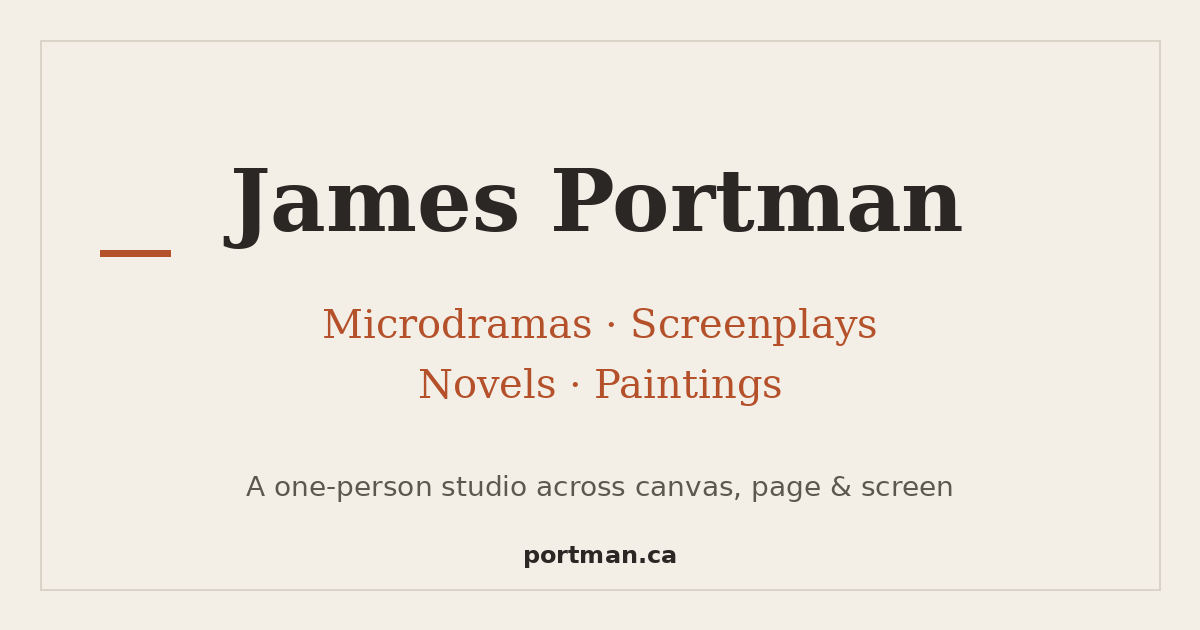
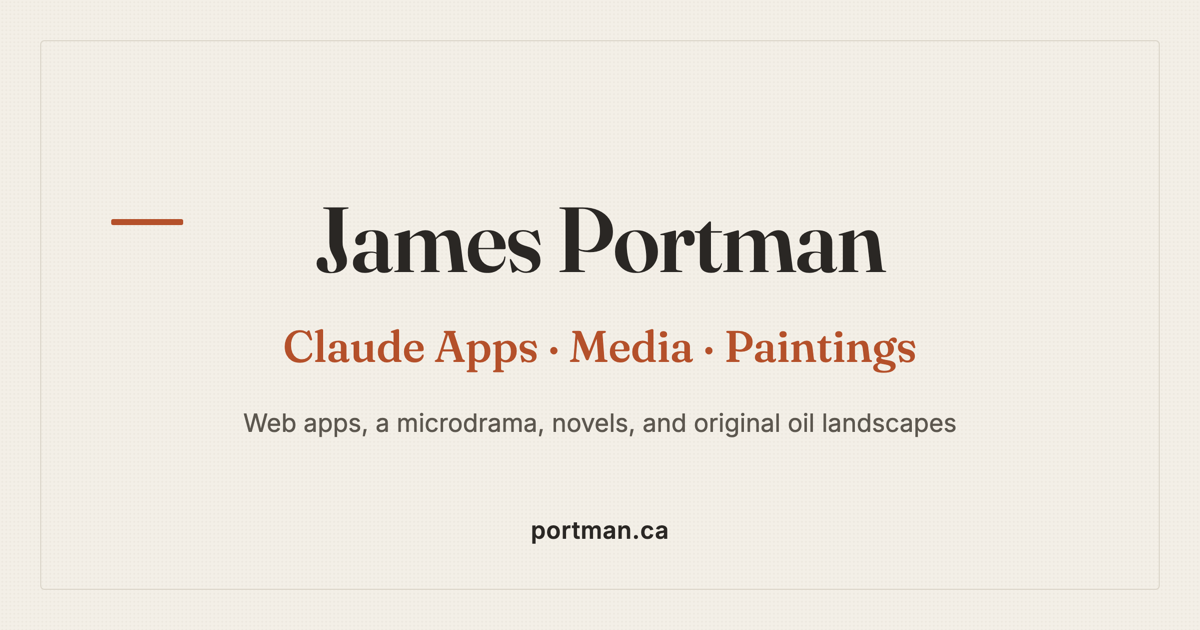
New social card, gallery build script, lighter images
- assets/og-image.png regenerated: the card said "Microdramas · Screenplays ·
  Novels · Paintings" and described a studio "across canvas, page & screen"
- tools/build-gallery.mjs rebuilds the Paintings grid from the public
  georgianartist.com pages — no database, no credentials. --check reports
  drift without writing. Run it after changing the gallery.
- Tile images are now alt="" so screen readers read each title once, from
  the caption, instead of twice
- Card images resized to what they display at: 796K -> 192K, 508K -> 64K,
  208K -> 136K

diff --git a/index.html b/index.html
@@ -169,30 +169,30 @@
         <a class="visit" href="https://www.georgianartist.com" target="_blank" rel="noopener">Visit georgianartist.com →</a>
         <div class="toplist">
           <div class="tiles">
-            <a href="https://www.georgianartist.com/products/scenic-caves" target="_blank" rel="noopener" title="Scenic Caves"><img src="assets/gallery/scenic-caves.jpg" alt="Scenic Caves" loading="lazy" /><span>Scenic Caves</span></a>
-            <a href="https://www.georgianartist.com/products/singhampton-winter" target="_blank" rel="noopener" title="Singhampton: Winter"><img src="assets/gallery/singhampton-winter.jpg" alt="Singhampton: Winter" loading="lazy" /><span>Singhampton: Winter</span></a>
-            <a href="https://www.georgianartist.com/products/council-beach" target="_blank" rel="noopener" title="Council Beach"><img src="assets/gallery/council-beach.jpg" alt="Council Beach" loading="lazy" /><span>Council Beach</span></a>
-            <a href="https://www.georgianartist.com/products/lora-bay" target="_blank" rel="noopener" title="Lora Bay"><img src="assets/gallery/lora-bay.jpg" alt="Lora Bay" loading="lazy" /><span>Lora Bay</span></a>
-            <a href="https://www.georgianartist.com/products/bruce-trail" target="_blank" rel="noopener" title="Bruce Trail in the Grey Highlands"><img src="assets/gallery/bruce-trail.jpg" alt="Bruce Trail in the Grey Highlands" loading="lazy" /><span>Bruce Trail in the Grey Highlands</span></a>
-            <a href="https://www.georgianartist.com/products/inglis-falls" target="_blank" rel="noopener" title="Inglis Falls, Owen Sound"><img src="assets/gallery/inglis-falls.jpg" alt="Inglis Falls, Owen Sound" loading="lazy" /><span>Inglis Falls, Owen Sound</span></a>
-            <a href="https://www.georgianartist.com/products/manitoulin-island" target="_blank" rel="noopener" title="Manitoulin Island"><img src="assets/gallery/manitoulin-island.jpg" alt="Manitoulin Island" loading="lazy" /><span>Manitoulin Island</span></a>
-            <a href="https://www.georgianartist.com/products/alpine-ski-fall" target="_blank" rel="noopener" title="Alpine Ski: Fall"><img src="assets/gallery/alpine-ski-fall.jpg" alt="Alpine Ski: Fall" loading="lazy" /><span>Alpine Ski: Fall</span></a>
-            <a href="https://www.georgianartist.com/products/beaver-river-access" target="_blank" rel="noopener" title="Beaver River Access"><img src="assets/gallery/beaver-river-access.jpg" alt="Beaver River Access" loading="lazy" /><span>Beaver River Access</span></a>
-            <a href="https://www.georgianartist.com/products/ravenna-canola" target="_blank" rel="noopener" title="Ravenna Canola Field"><img src="assets/gallery/ravenna-canola.jpg" alt="Ravenna Canola Field" loading="lazy" /><span>Ravenna Canola Field</span></a>
-            <a href="https://www.georgianartist.com/products/northwinds-beach" target="_blank" rel="noopener" title="Northwinds Beach"><img src="assets/gallery/northwinds-beach.jpg" alt="Northwinds Beach" loading="lazy" /><span>Northwinds Beach</span></a>
-            <a href="https://www.georgianartist.com/products/ravenna-sunset" target="_blank" rel="noopener" title="Ravenna Sunset"><img src="assets/gallery/ravenna-sunset.jpg" alt="Ravenna Sunset" loading="lazy" /><span>Ravenna Sunset</span></a>
-            <a href="https://www.georgianartist.com/photographs/clarksburg-library" target="_blank" rel="noopener" title="Clarksburg Library"><img src="assets/gallery/clarksburg-library.jpg" alt="Clarksburg Library" loading="lazy" /><span>Clarksburg Library</span></a>
-            <a href="https://www.georgianartist.com/photographs/delphi-point" target="_blank" rel="noopener" title="Delphi Point"><img src="assets/gallery/delphi-point.jpg" alt="Delphi Point" loading="lazy" /><span>Delphi Point</span></a>
-            <a href="https://www.georgianartist.com/photographs/ravenna-canola-photo" target="_blank" rel="noopener" title="Ravenna Canola"><img src="assets/gallery/ravenna-canola-photo.jpg" alt="Ravenna Canola" loading="lazy" /><span>Ravenna Canola</span></a>
-            <a href="https://www.georgianartist.com/photographs/northwinds-beach-twilight" target="_blank" rel="noopener" title="Northwinds Beach Twilight"><img src="assets/gallery/northwinds-beach-twilight.jpg" alt="Northwinds Beach Twilight" loading="lazy" /><span>Northwinds Beach Twilight</span></a>
-            <a href="https://www.georgianartist.com/photographs/the-grotto" target="_blank" rel="noopener" title="The Grotto"><img src="assets/gallery/the-grotto.jpg" alt="The Grotto" loading="lazy" /><span>The Grotto</span></a>
-            <a href="https://www.georgianartist.com/photographs/blue-mountain-sunrise" target="_blank" rel="noopener" title="Blue Mountain Sunrise"><img src="assets/gallery/blue-mountain-sunrise.jpg" alt="Blue Mountain Sunrise" loading="lazy" /><span>Blue Mountain Sunrise</span></a>
-            <a href="https://www.georgianartist.com/photographs/blue-mountain-sunset-2" target="_blank" rel="noopener" title="Blue Mountain Sunset"><img src="assets/gallery/blue-mountain-sunset-2.jpg" alt="Blue Mountain Sunset" loading="lazy" /><span>Blue Mountain Sunset</span></a>
-            <a href="https://www.georgianartist.com/photographs/local-farm" target="_blank" rel="noopener" title="Local Farm"><img src="assets/gallery/local-farm.jpg" alt="Local Farm" loading="lazy" /><span>Local Farm</span></a>
-            <a href="https://www.georgianartist.com/photographs/blue-mountain-trail" target="_blank" rel="noopener" title="Blue Mountain Trail"><img src="assets/gallery/blue-mountain-trail.jpg" alt="Blue Mountain Trail" loading="lazy" /><span>Blue Mountain Trail</span></a>
-            <a href="https://www.georgianartist.com/photographs/bridal-veil-falls" target="_blank" rel="noopener" title="Bridal Veil Falls"><img src="assets/gallery/bridal-veil-falls.jpg" alt="Bridal Veil Falls" loading="lazy" /><span>Bridal Veil Falls</span></a>
-            <a href="https://www.georgianartist.com/photographs/autumn-canopy" target="_blank" rel="noopener" title="Autumn Canopy"><img src="assets/gallery/autumn-canopy.jpg" alt="Autumn Canopy" loading="lazy" /><span>Autumn Canopy</span></a>
-            <a href="https://www.georgianartist.com/photographs/snowy-owl-in-craigleith" target="_blank" rel="noopener" title="Snowy Owl in Craigleith"><img src="assets/gallery/snowy-owl-in-craigleith.jpg" alt="Snowy Owl in Craigleith" loading="lazy" /><span>Snowy Owl in Craigleith</span></a>
+            <a href="https://www.georgianartist.com/products/scenic-caves" target="_blank" rel="noopener" title="Scenic Caves"><img src="assets/gallery/scenic-caves.jpg" alt="" loading="lazy" /><span>Scenic Caves</span></a>
+            <a href="https://www.georgianartist.com/products/singhampton-winter" target="_blank" rel="noopener" title="Singhampton: Winter"><img src="assets/gallery/singhampton-winter.jpg" alt="" loading="lazy" /><span>Singhampton: Winter</span></a>
+            <a href="https://www.georgianartist.com/products/bruce-trail" target="_blank" rel="noopener" title="Bruce Trail in the Grey Highlands"><img src="assets/gallery/bruce-trail.jpg" alt="" loading="lazy" /><span>Bruce Trail in the Grey Highlands</span></a>
+            <a href="https://www.georgianartist.com/products/council-beach" target="_blank" rel="noopener" title="Council Beach"><img src="assets/gallery/council-beach.jpg" alt="" loading="lazy" /><span>Council Beach</span></a>
+            <a href="https://www.georgianartist.com/products/lora-bay" target="_blank" rel="noopener" title="Lora Bay"><img src="assets/gallery/lora-bay.jpg" alt="" loading="lazy" /><span>Lora Bay</span></a>
+            <a href="https://www.georgianartist.com/products/alpine-ski-fall" target="_blank" rel="noopener" title="Alpine Ski: Fall"><img src="assets/gallery/alpine-ski-fall.jpg" alt="" loading="lazy" /><span>Alpine Ski: Fall</span></a>
+            <a href="https://www.georgianartist.com/products/beaver-river-access" target="_blank" rel="noopener" title="Beaver River Access"><img src="assets/gallery/beaver-river-access.jpg" alt="" loading="lazy" /><span>Beaver River Access</span></a>
+            <a href="https://www.georgianartist.com/products/inglis-falls" target="_blank" rel="noopener" title="Inglis Falls, Owen Sound"><img src="assets/gallery/inglis-falls.jpg" alt="" loading="lazy" /><span>Inglis Falls, Owen Sound</span></a>
+            <a href="https://www.georgianartist.com/products/manitoulin-island" target="_blank" rel="noopener" title="Manitoulin Island"><img src="assets/gallery/manitoulin-island.jpg" alt="" loading="lazy" /><span>Manitoulin Island</span></a>
+            <a href="https://www.georgianartist.com/products/ravenna-canola" target="_blank" rel="noopener" title="Ravenna Canola Field"><img src="assets/gallery/ravenna-canola.jpg" alt="" loading="lazy" /><span>Ravenna Canola Field</span></a>
+            <a href="https://www.georgianartist.com/products/ravenna-sunset" target="_blank" rel="noopener" title="Ravenna Sunset"><img src="assets/gallery/ravenna-sunset.jpg" alt="" loading="lazy" /><span>Ravenna Sunset</span></a>
+            <a href="https://www.georgianartist.com/products/northwinds-beach" target="_blank" rel="noopener" title="Northwinds Beach"><img src="assets/gallery/northwinds-beach.jpg" alt="" loading="lazy" /><span>Northwinds Beach</span></a>
+            <a href="https://www.georgianartist.com/photographs/delphi-point" target="_blank" rel="noopener" title="Delphi Point"><img src="assets/gallery/delphi-point.jpg" alt="" loading="lazy" /><span>Delphi Point</span></a>
+            <a href="https://www.georgianartist.com/photographs/the-grotto" target="_blank" rel="noopener" title="The Grotto"><img src="assets/gallery/the-grotto.jpg" alt="" loading="lazy" /><span>The Grotto</span></a>
+            <a href="https://www.georgianartist.com/photographs/blue-mountain-trail" target="_blank" rel="noopener" title="Blue Mountain Trail"><img src="assets/gallery/blue-mountain-trail.jpg" alt="" loading="lazy" /><span>Blue Mountain Trail</span></a>
+            <a href="https://www.georgianartist.com/photographs/autumn-canopy" target="_blank" rel="noopener" title="Autumn Canopy"><img src="assets/gallery/autumn-canopy.jpg" alt="" loading="lazy" /><span>Autumn Canopy</span></a>
+            <a href="https://www.georgianartist.com/photographs/clarksburg-library" target="_blank" rel="noopener" title="Clarksburg Library"><img src="assets/gallery/clarksburg-library.jpg" alt="" loading="lazy" /><span>Clarksburg Library</span></a>
+            <a href="https://www.georgianartist.com/photographs/ravenna-canola-photo" target="_blank" rel="noopener" title="Ravenna Canola"><img src="assets/gallery/ravenna-canola-photo.jpg" alt="" loading="lazy" /><span>Ravenna Canola</span></a>
+            <a href="https://www.georgianartist.com/photographs/northwinds-beach-twilight" target="_blank" rel="noopener" title="Northwinds Beach Twilight"><img src="assets/gallery/northwinds-beach-twilight.jpg" alt="" loading="lazy" /><span>Northwinds Beach Twilight</span></a>
+            <a href="https://www.georgianartist.com/photographs/blue-mountain-sunrise" target="_blank" rel="noopener" title="Blue Mountain Sunrise"><img src="assets/gallery/blue-mountain-sunrise.jpg" alt="" loading="lazy" /><span>Blue Mountain Sunrise</span></a>
+            <a href="https://www.georgianartist.com/photographs/blue-mountain-sunset-2" target="_blank" rel="noopener" title="Blue Mountain Sunset"><img src="assets/gallery/blue-mountain-sunset-2.jpg" alt="" loading="lazy" /><span>Blue Mountain Sunset</span></a>
+            <a href="https://www.georgianartist.com/photographs/local-farm" target="_blank" rel="noopener" title="Local Farm"><img src="assets/gallery/local-farm.jpg" alt="" loading="lazy" /><span>Local Farm</span></a>
+            <a href="https://www.georgianartist.com/photographs/bridal-veil-falls" target="_blank" rel="noopener" title="Bridal Veil Falls"><img src="assets/gallery/bridal-veil-falls.jpg" alt="" loading="lazy" /><span>Bridal Veil Falls</span></a>
+            <a href="https://www.georgianartist.com/photographs/snowy-owl-in-craigleith" target="_blank" rel="noopener" title="Snowy Owl in Craigleith"><img src="assets/gallery/snowy-owl-in-craigleith.jpg" alt="" loading="lazy" /><span>Snowy Owl in Craigleith</span></a>
           </div>
         </div>
       </div>
